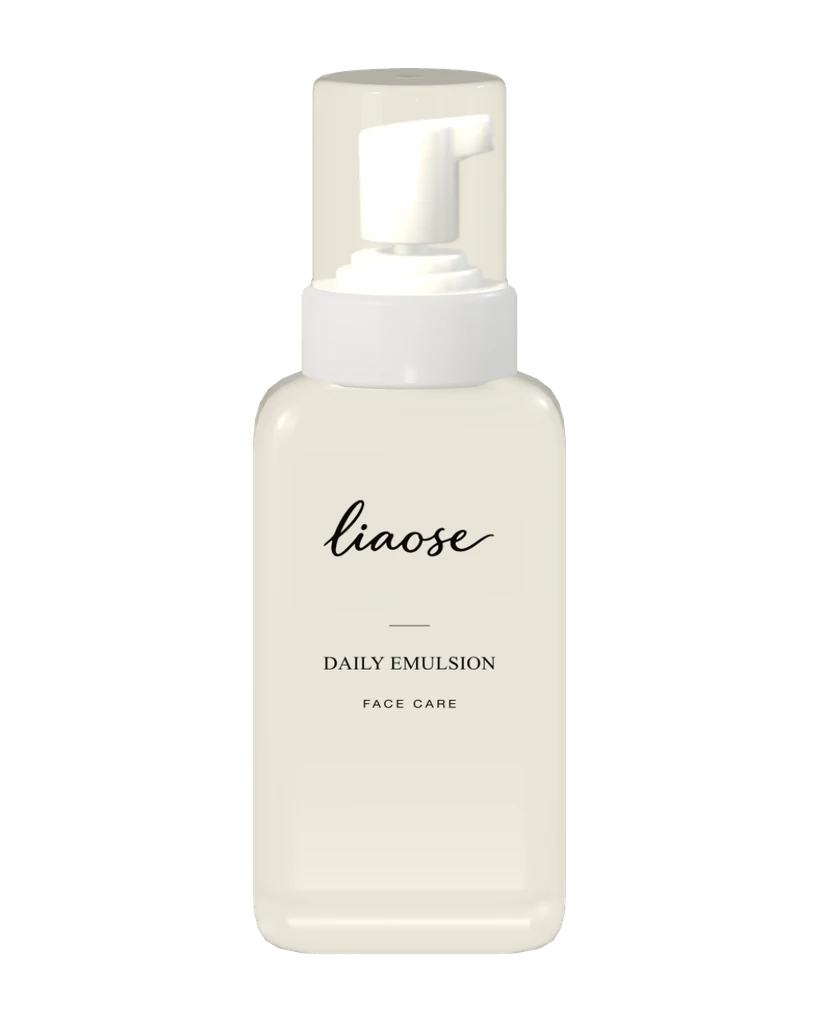
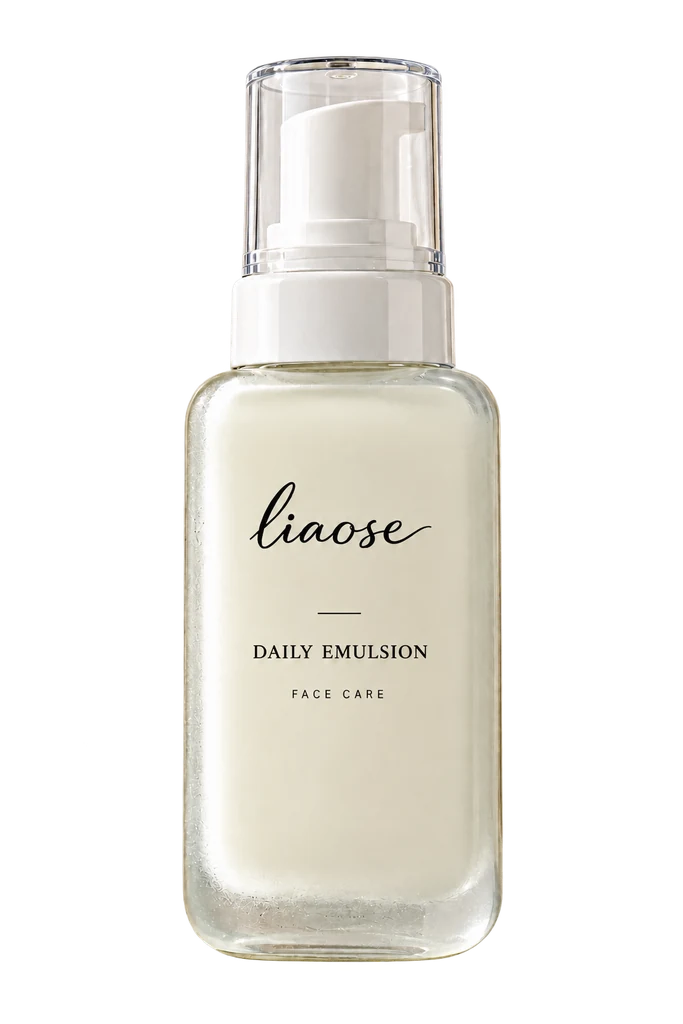
fix(showcase): match Daily Emulsion and single Body Oil poster visuals

Changed region(s): [[0.246, 0.0312, 0.7379, 0.9375]]

diff --git a/docs/client-motion-demo/src/structure/PackagingDetail.jsx b/docs/client-motion-demo/src/structure/PackagingDetail.jsx
@@ -312,7 +312,7 @@ export default function PackagingDetail({ item, lang, onClose, onOriginal, onFav
           <section className="packaging-stage" aria-labelledby="packaging-title">
             <div className="packaging-heading">
               <h1 id="packaging-title">{design.name.split(' ').map((word,i) => <React.Fragment key={i}>{i > 0 && ' '}<span className={i > 0 ? 'packaging-title-second' : undefined}>{word}</span></React.Fragment>)}</h1>
-              <p className="packaging-intro">{design.kind[lang]}</p>
+              <p className="packaging-intro">{(product.design?.kind || design.kind)[lang]}</p>
             </div>
 
             <div className="packaging-model" ref={hostRef} aria-label={zh ? '可拖拽旋转的分层包材模型' : 'Layered packaging model, drag to rotate or use the bottom view button'} />

diff --git a/docs/client-motion-demo/index.html b/docs/client-motion-demo/index.html
@@ -1,1 +1,1 @@
-<!doctype html><html lang="zh-CN"><head><meta charset="UTF-8"><meta name="viewport" content="width=device-width,initial-scale=1"><meta name="theme-color" content="#f2f2f0"><title>源泽 · 客户海报展厅 — client1.33 · 动效预览</title></head><body><div id="root"></div><script type="module" src="/src/main.jsx"></script></body></html>
+<!doctype html><html lang="zh-CN"><head><meta charset="UTF-8"><meta name="viewport" content="width=device-width,initial-scale=1"><meta name="theme-color" content="#f2f2f0"><title>源泽 · 客户海报展厅 — 两款展示修订 · 本地预览</title></head><body><div id="root"></div><script type="module" src="/src/main.jsx"></script></body></html>

diff --git a/docs/client-motion-demo/tests/packaging-integration.test.jsx b/docs/client-motion-demo/tests/packaging-integration.test.jsx
@@ -683,7 +683,8 @@ test('featured Body Oil preserves its approved single-bottle theme and all five 
     assert.equal(focused,'name');
     await act(async()=>env.root.render(<Detail {...defaultProps} item={bodyOil} lang="en"/>));
     const english=document.querySelector('.packaging-intro').textContent;
-    assert.equal(english,mounted.design.kind.en);
+    assert.equal(english,mounted.product.design.kind.en);
+    assert.equal(english,'Body care · empty glass bottle');
     assert.ok(/[A-Za-z]/.test(english));
     assert.equal(document.querySelector('h1').textContent,'Body Oil Collection');
   } finally {await env.close();}

diff --git a/docs/client-motion-demo/poster-fidelity-preview-20261030.md b/docs/client-motion-demo/poster-fidelity-preview-20261030.md
@@ -1,0 +1,15 @@
+# 两款展示素材修订 — 本地预览，未上线
+
+用户要求核对原海报收录，并先重做展示效果；后续明确同型三瓶只展示单产品。本轮以线上 client1.33 对应源码 700cf24 为基线，使用独立分支。
+
+- poster-072 / Daily Emulsion：按原海报重做磨砂玻璃、乳白料体、白色泵头和透明罩的单瓶展示。
+- poster-073 / Body Oil Collection：仅使用原海报中间 02 号单瓶，保留米白盖、透明玻璃与金琥珀色油液。未使用三瓶组合生成稿。
+- 线上两张原海报均返回 HTTP 200，与用户本次提供的 PNG 解码后 RGB 像素完全一致；线上 WebP 的 SHA-256 与仓库一致，无需重复收录。
+- 只替换两张首页 PNG、四张响应式 WebP 与清单和文案。61 张原海报、26 个精选顺序和模型 GLB 保持。
+- 3D 结构仍为空包材。详情分类优先使用模型自身说明，避免首页含料体的描述进入结构页。
+
+验证：160 项客户端测试通过；Vite 本地构建通过；素材准备脚本校验 61 张海报、26 张展示图和 28 项结构资源；Impeccable detector 无发现。浏览器检查 1788×1041 桌面与 393×852 模拟视口、两款切换及原海报往返，无横向溢出。
+
+发布保护检查拒绝本地未盖章预览：client1.33 source changed: rebuild and stamp the release first。未更新旧正式版本的构建签章；发布套件不作为本地预览通过项。未发布、未重启、未写入业务数据，也未占用新正式版本号。
+
+局限：图片由内置 image_gen 按参考生成，展示细节以原海报为准；本次未重做 3D 模型。手机检查是模拟视口，未测实体设备。

diff --git a/docs/YUANZE_VERSIONS.md b/docs/YUANZE_VERSIONS.md
@@ -280,3 +280,8 @@ client1.2 / yuanze2.0.3 同版媒体加载修复：2026-10-21 23:28:55 已上线
 ### client1.7 同版加载与产品配色修复（2026-10-23）
 
 针对加载慢和详情配色反馈，模型与场景/动画并行、取消与超时保护，标签无损WebP，并沿用Beach Magic精选区黄粉配色。保留模型几何、中性棚光、透明/白色材质、原交互与业务接口。已于北京时间2026-10-23 12:19:35上线；源码 `0a973fba`，回执 `docs/client-motion-demo/client17-loading-release.json`。先合并并保留12:08:14发布的client1.7弧形首页，维持23款精选/53张海报。全量验证、384项服务器文件、正式HTTPS/权限与桌面/手机宽度交互检查通过。模型实际传输减少57.8%，相同限速冷缓存测试15.4→8.1–10.2秒；实际网络存在波动。6820个非展厅文件保持，应用未重启；网关仅添加GLB gzip类型后重载，不另占版本号。
+
+
+## 2026-10-30 两款展示素材修订（本地预览，未上线）
+
+072 乳液与 073 身体油按原海报重做单瓶展示，身体油仅取 02 号；线上两张原海报与用户参考逐像素一致，无需重复收录。160 项客户端测试、本地构建及桌面/手机模拟视口检查通过。未修改原海报或 3D 模型，未发布、不占新正式版号。详情见 `client-motion-demo/poster-fidelity-preview-20261030.md`；源码以本条同次提交定位。
